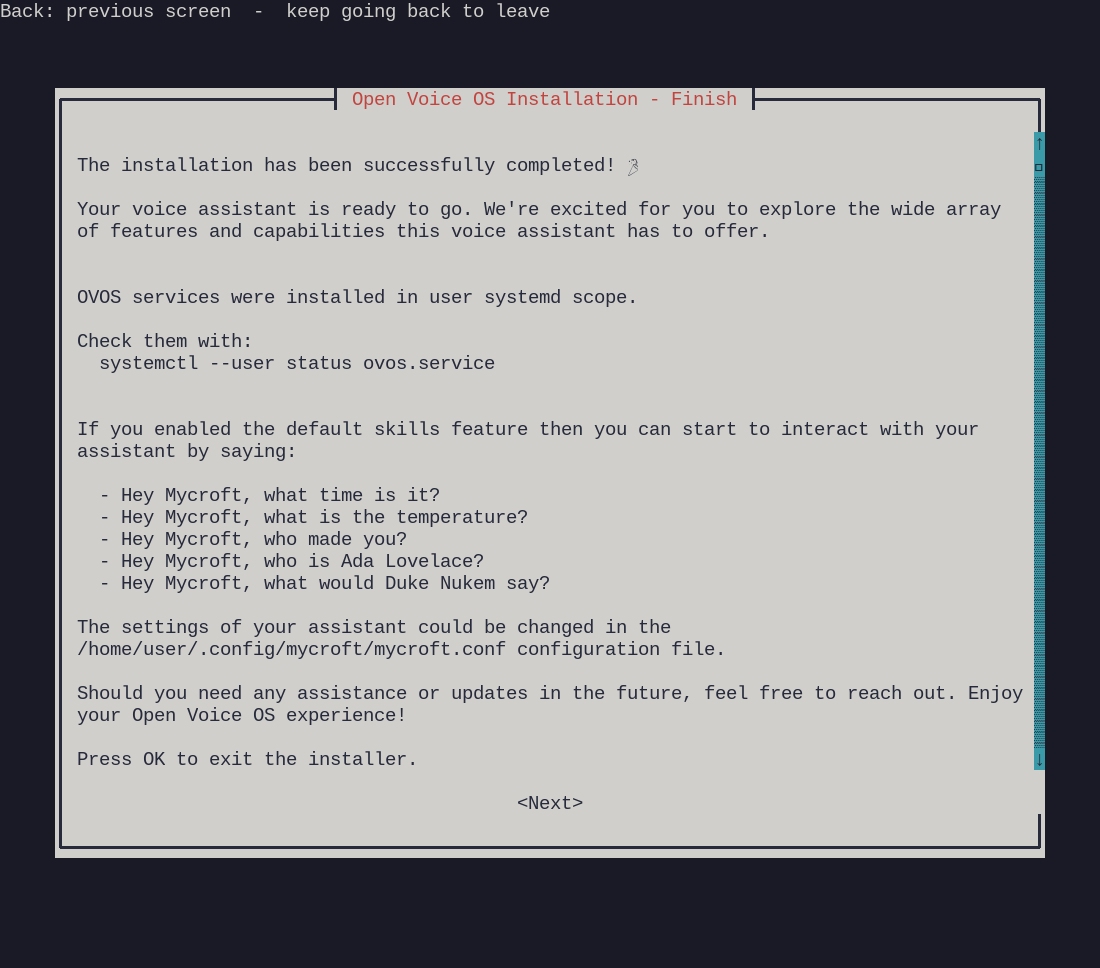
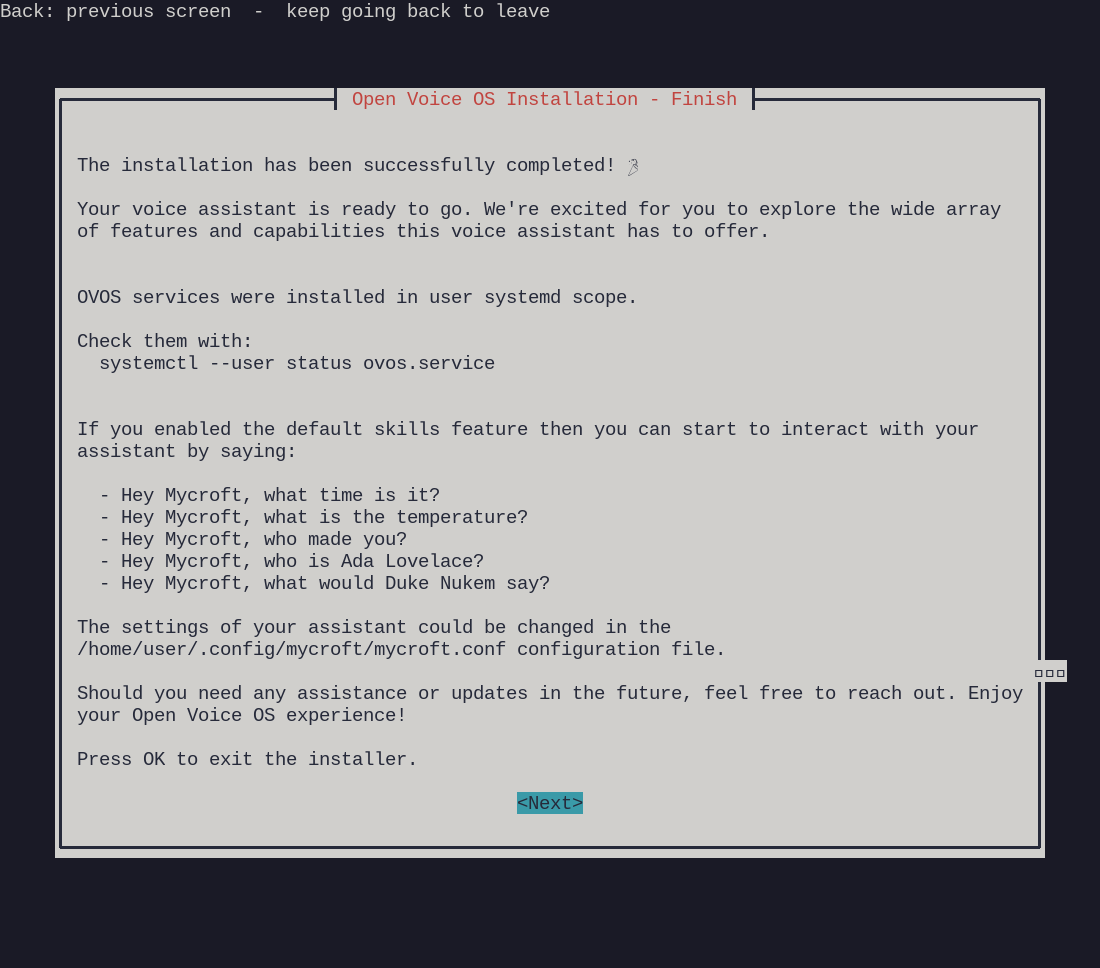
fix(tui): stop spending rows on padding the dialogs do not need
whiptail anchors the buttons to the bottom of the box, so the blank line
every locale template ends its body with buys nothing: it only pushes
the text closer to needing a scrollbar, and a scrollbar takes the focus
off the buttons. Trailing blank lines are dropped now. The one at the
top is kept, because that is the padding between the border and the
first line.

One row was all that stood between a 100x30 terminal and answering every
screen with Enter. It does now, as does anything larger.

--uninstall also preselects uninstalling on the prompt it now has to
answer, rather than asking a question whose answer it overrides.

Changed region(s): [[0.9273, 0.124, 0.9891, 0.8058], [0.4636, 0.8058, 0.5255, 0.8678]]

diff --git a/README.md b/README.md
@@ -40,7 +40,7 @@ The ESC key does nothing either, because newt dropped it as a form hotkey in
 The screens size themselves to the terminal. On a window too small for a
 screen's text the text scrolls, and whiptail then starts with the focus in the
 text rather than on a button, so **Tab** moves to **Next** and **Back**. A
-terminal of about 33 rows or more never needs that.
+terminal of about 30 rows or more never needs that.
 
 ### Pass environment variables to the `curl` one-liner
 
